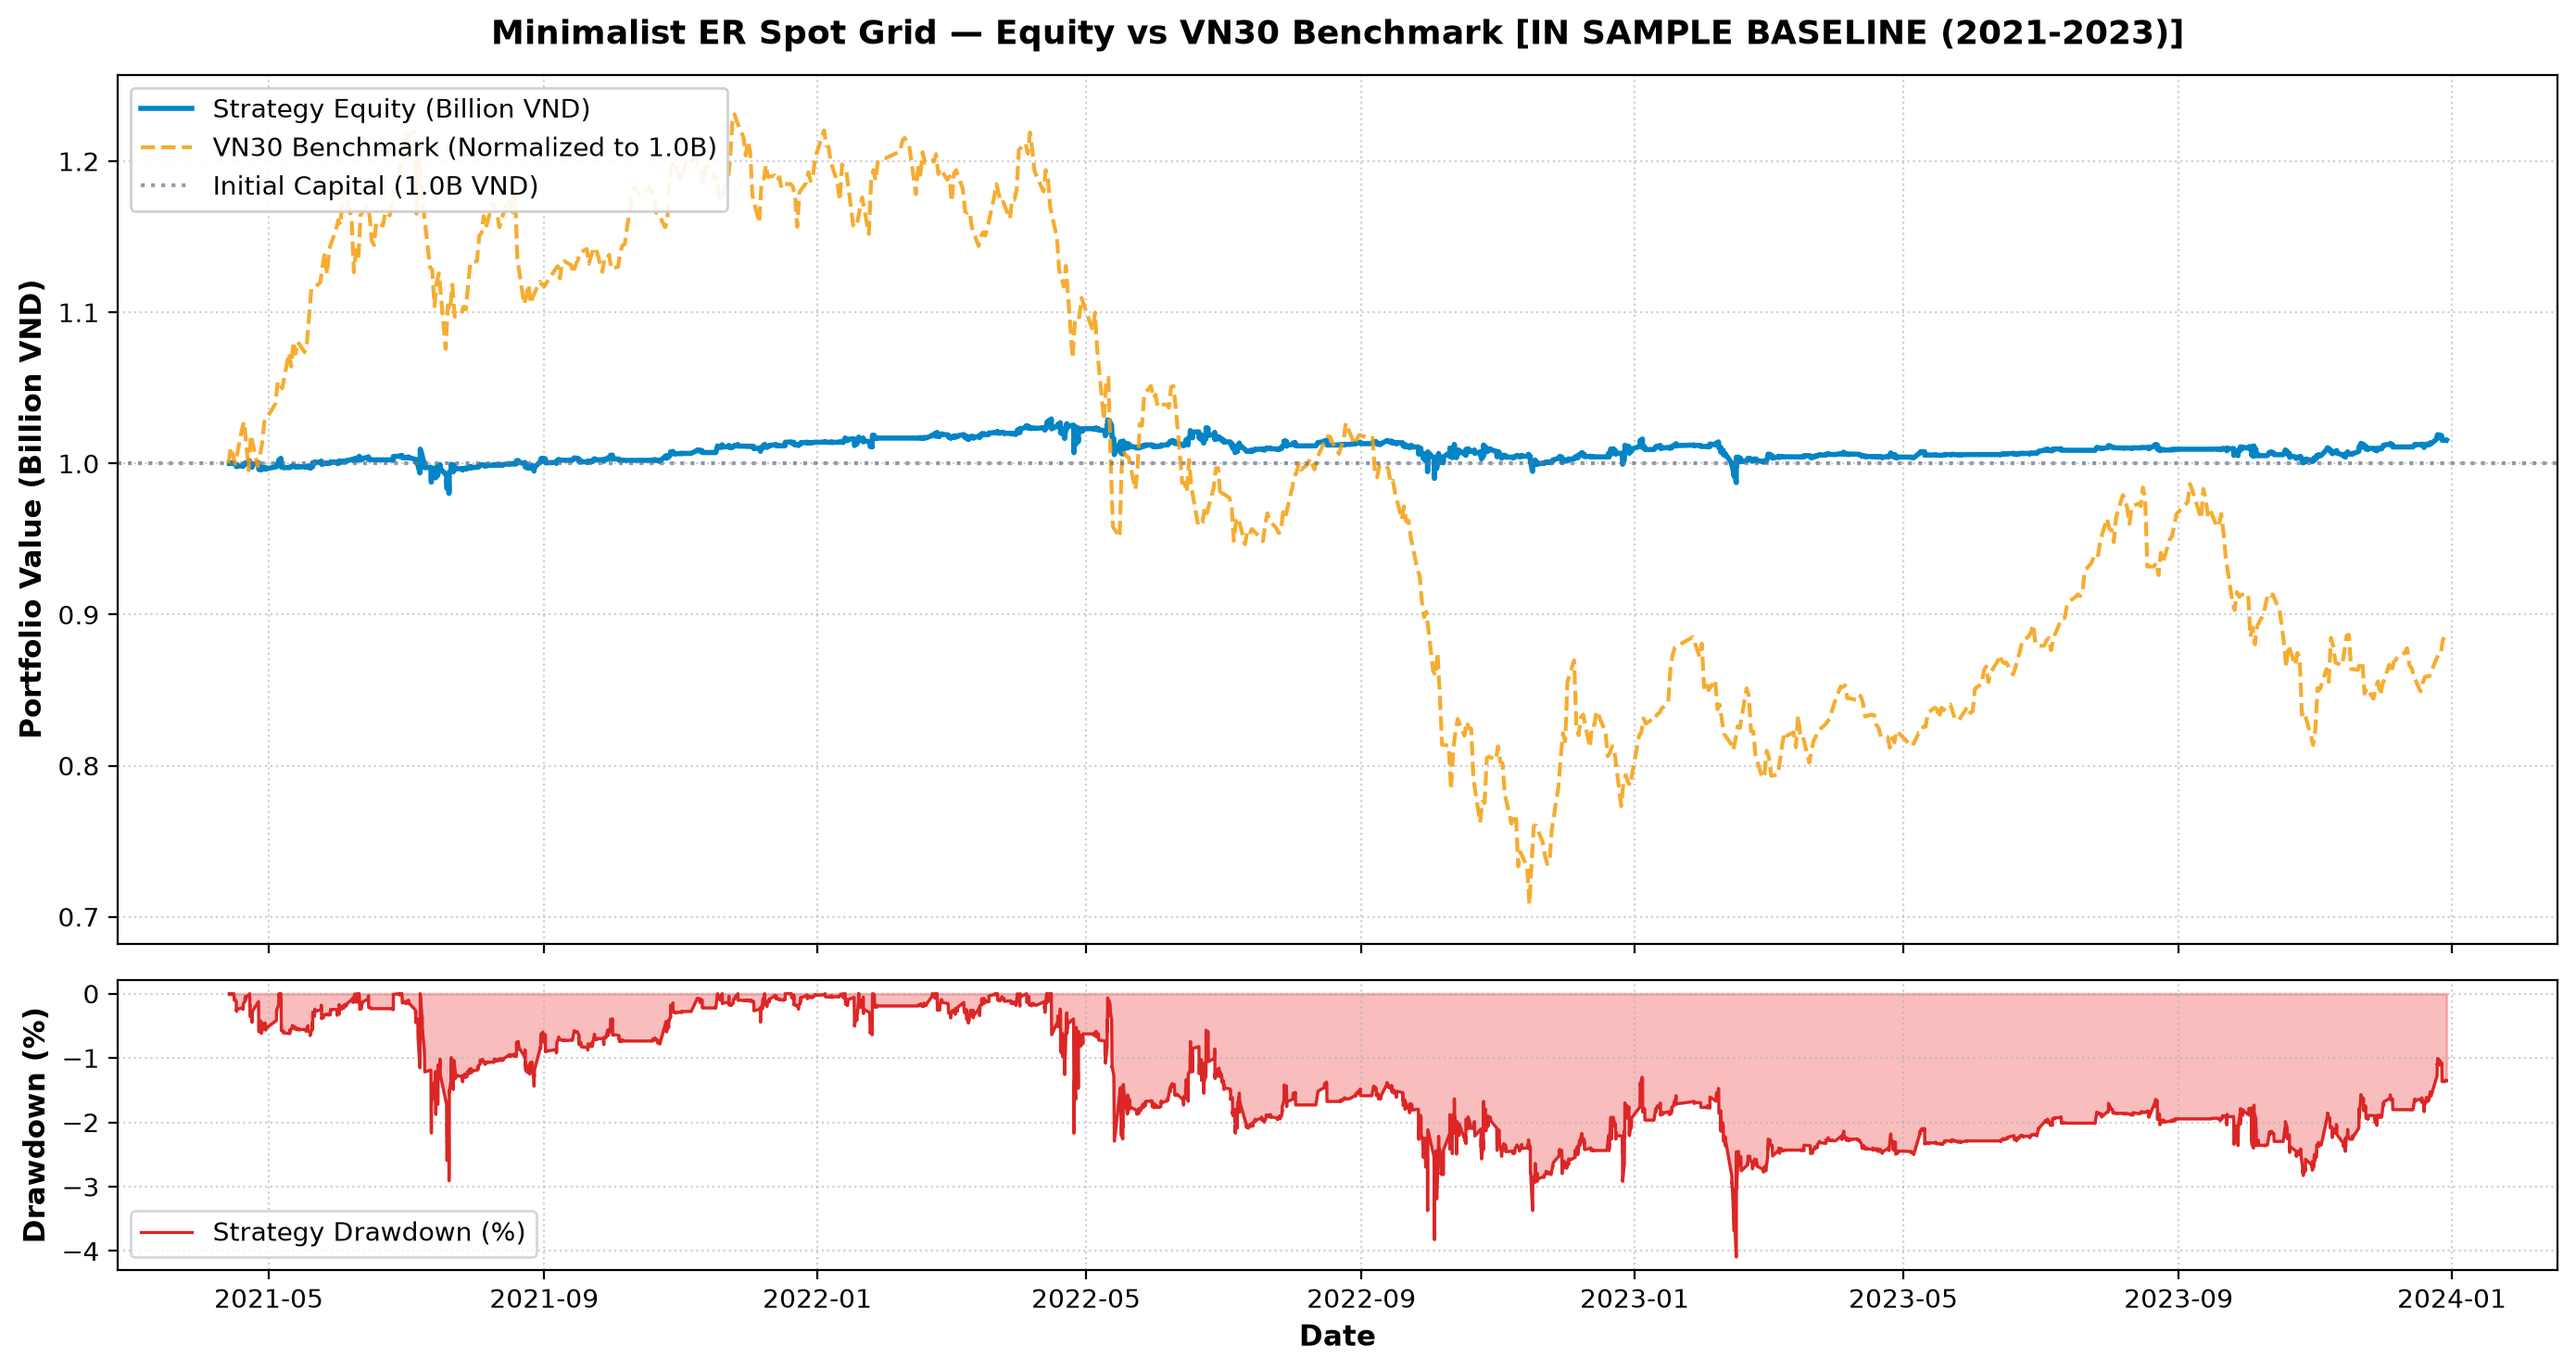
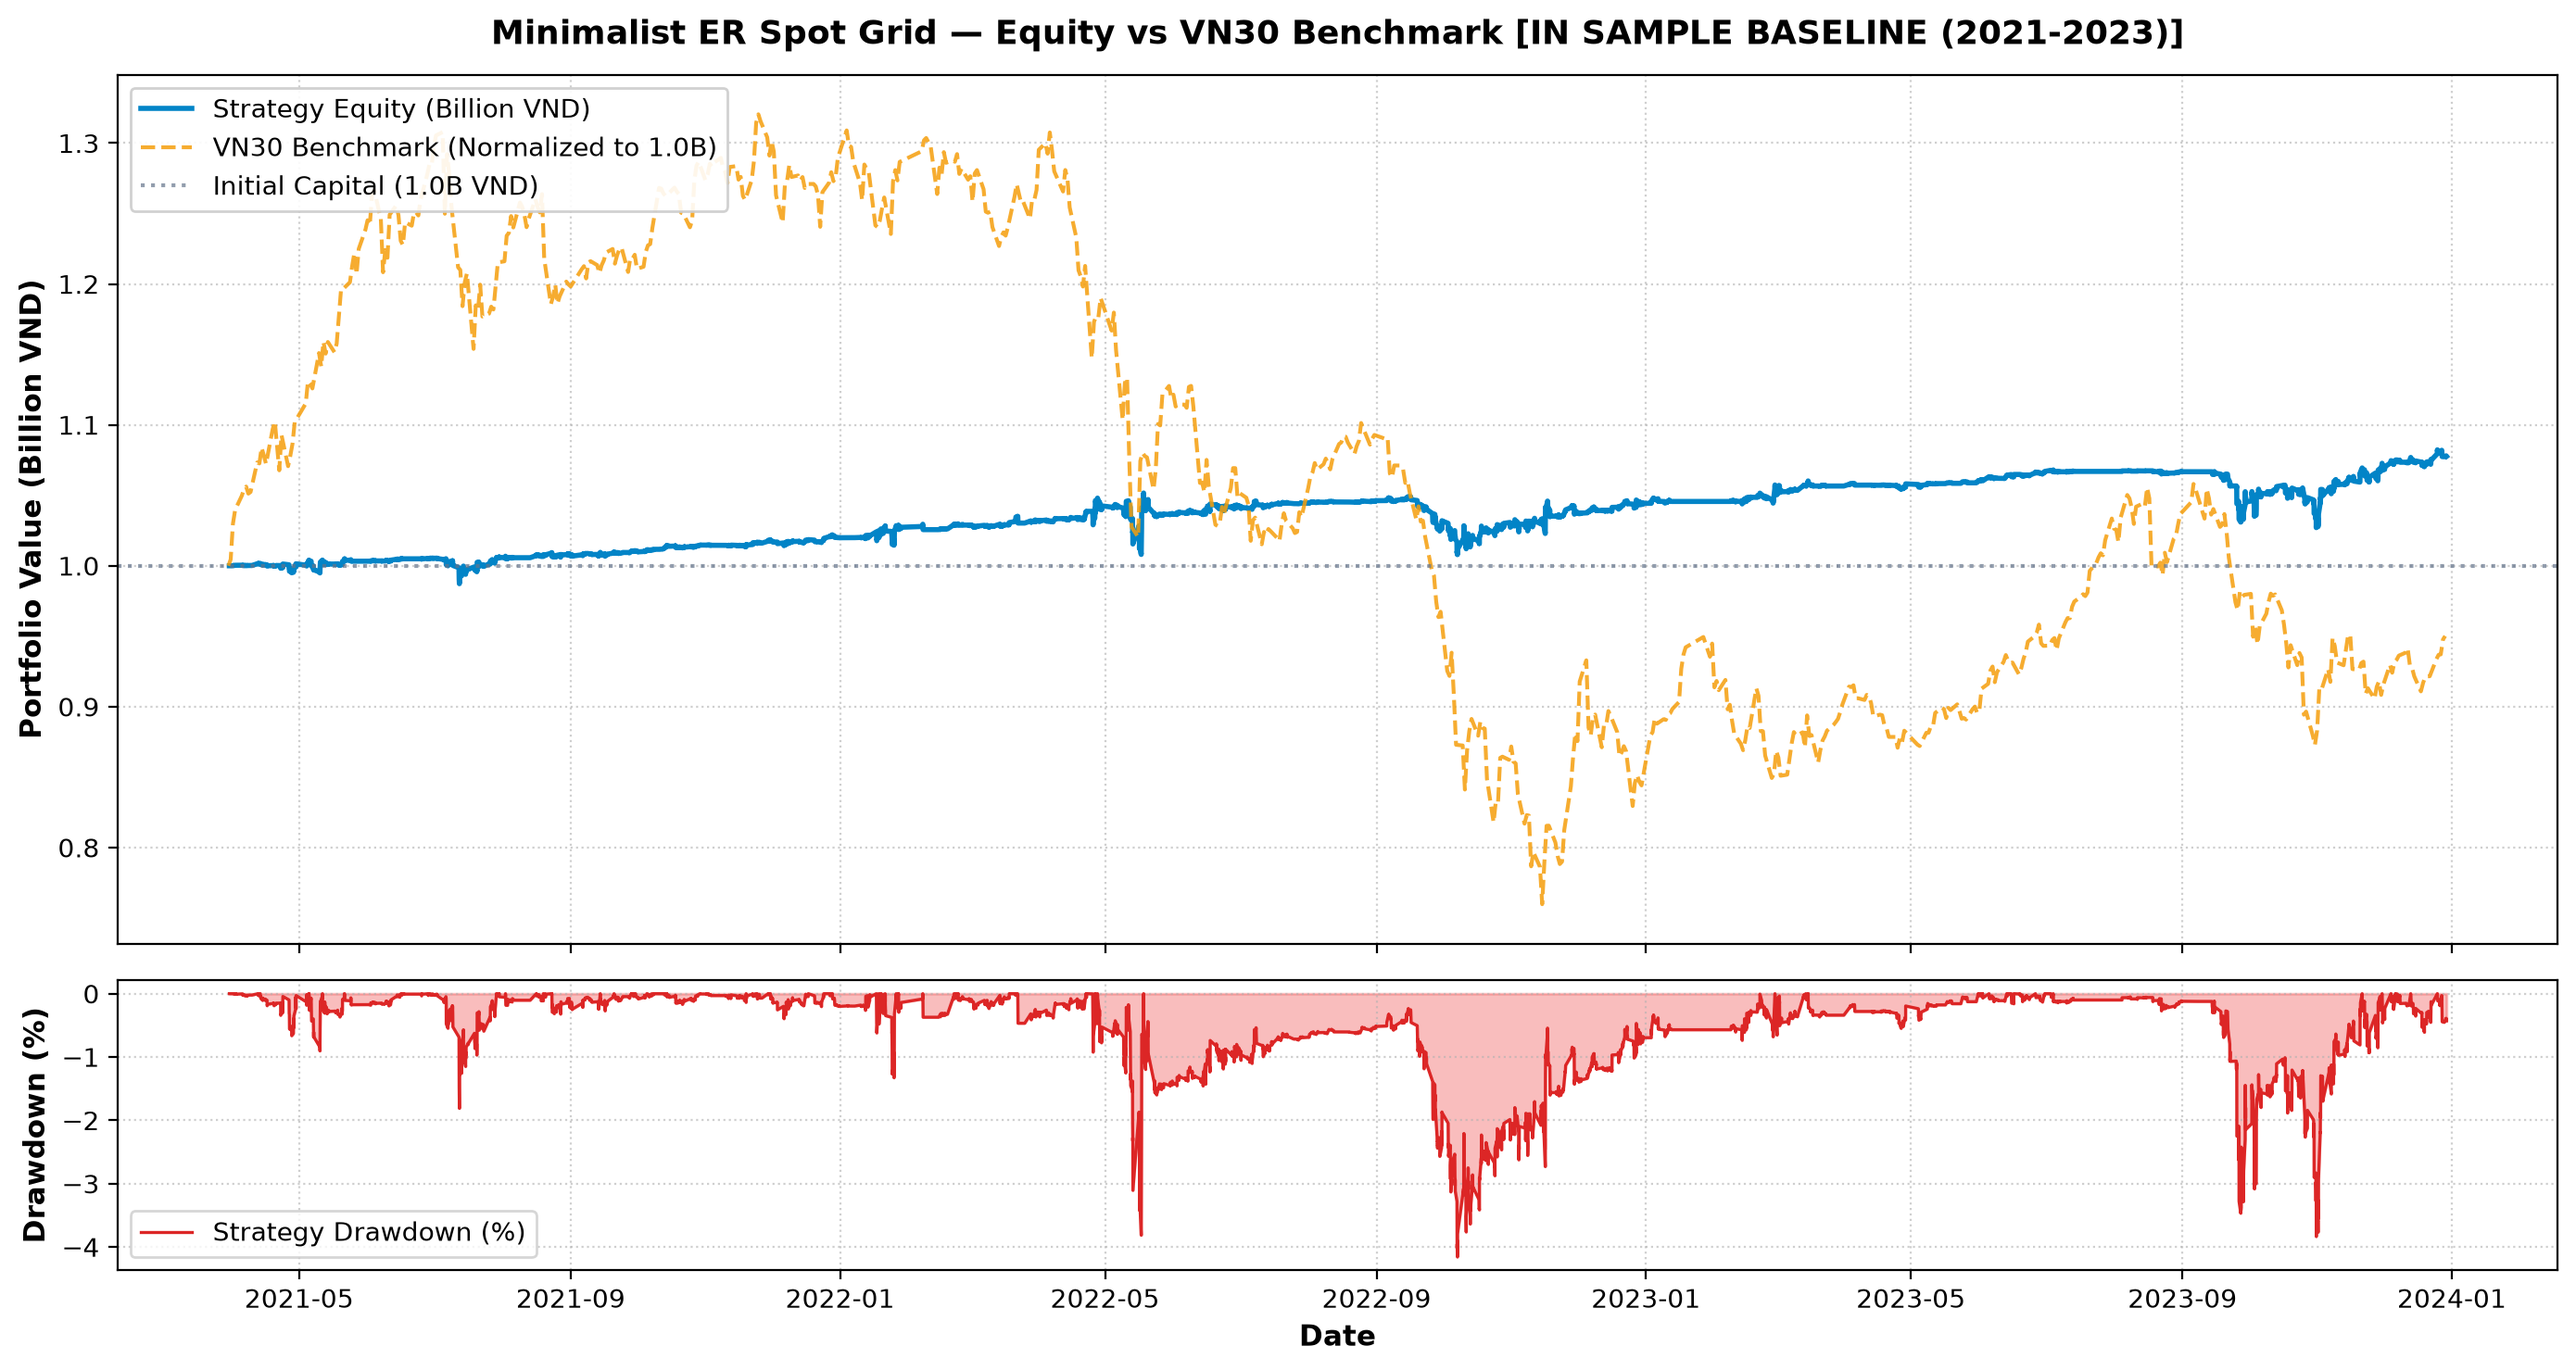
Update repo

diff --git a/scripts/run_is.py b/scripts/run_is.py
@@ -27,7 +27,7 @@ from src.logic import MinimalistERGridBacktest, plot_equity_curve
 
 def main():
     print("=" * 75)
-    print("MINIMALIST ER SPOT GRID — IN-SAMPLE BASELINE EVALUATION (2021-2023)")
+    print("MINIMALIST ER SPOT GRID — IN-SAMPLE EVALUATION (2021-2023)")
     print("=" * 75)
     
     cfg_path = os.path.join(curr_dir, "config/config.yaml")
@@ -35,9 +35,8 @@ def main():
         config = yaml.safe_load(f)
         
     strat_cfg = config.get("strategy", {})
-    # Step 4 evaluates the baseline strategy hypothesis from config.yaml directly.
-    # It strictly avoids forward dependency on optimization outputs (Step 5).
-    print(f"Evaluating baseline parameters from config.yaml: lookback={strat_cfg.get('selection_lookback', 40)}d, rebalance={strat_cfg.get('selection_rebalance_days', 10)}d, n_levels={strat_cfg.get('n_levels', 18)}, grid_spacing_pct={strat_cfg.get('grid_spacing_pct', 0.018)}")
+    # Step 4 evaluates the strategy hypothesis from config.yaml directly.
+    print(f"Evaluating parameters from config.yaml: lookback={strat_cfg.get('selection_lookback', 30)}d, rebalance={strat_cfg.get('selection_rebalance_days', 15)}d, n_levels={strat_cfg.get('n_levels', 16)}, grid_spacing_pct={strat_cfg.get('grid_spacing_pct', 0.020)}")
 
     bundle = prepare_data(config, "in_sample")
     
@@ -47,11 +46,11 @@ def main():
         broker_fee=strat_cfg.get("broker_fee", 0.0015),
         sell_tax=strat_cfg.get("sell_tax", 0.0010),
         slippage=strat_cfg.get("slippage", 0.0005),
-        selection_lookback=strat_cfg.get("selection_lookback", 40),
-        selection_rebalance_days=strat_cfg.get("selection_rebalance_days", 10),
+        selection_lookback=strat_cfg.get("selection_lookback", 30),
+        selection_rebalance_days=strat_cfg.get("selection_rebalance_days", 15),
         top_k=strat_cfg.get("top_k", 4),
-        n_levels=strat_cfg.get("n_levels", 18),
-        grid_spacing_pct=strat_cfg.get("grid_spacing_pct", 0.018),
+        n_levels=strat_cfg.get("n_levels", 16),
+        grid_spacing_pct=strat_cfg.get("grid_spacing_pct", 0.020),
         stop_buffer_levels=strat_cfg.get("stop_buffer_levels", 2),
         trend_filter=strat_cfg.get("trend_filter", "none"),
         risk_free_rate=strat_cfg.get("risk_free_rate", 0.06)

diff --git a/src/optimizer.py b/src/optimizer.py
@@ -8,7 +8,7 @@ from .data_fetcher import prepare_data
 def run_optimization(config):
     """
     Exhaustive 25-Point Grid Search Hyperparameter Optimization.
-    Evaluates combinations of N in [12, 14, 16, 18, 20] and Spacing in [1.6%, 3.2%]
+    Evaluates combinations of N in [12, 14, 16, 18, 20] and Spacing in [0.5%, 2.0%]
     using In-Sample optimal lookback=30d, rebalance=15d strictly on In-Sample (2021-2023)
     using institutional Calmar Ratio and Daily Sharpe.
     """
